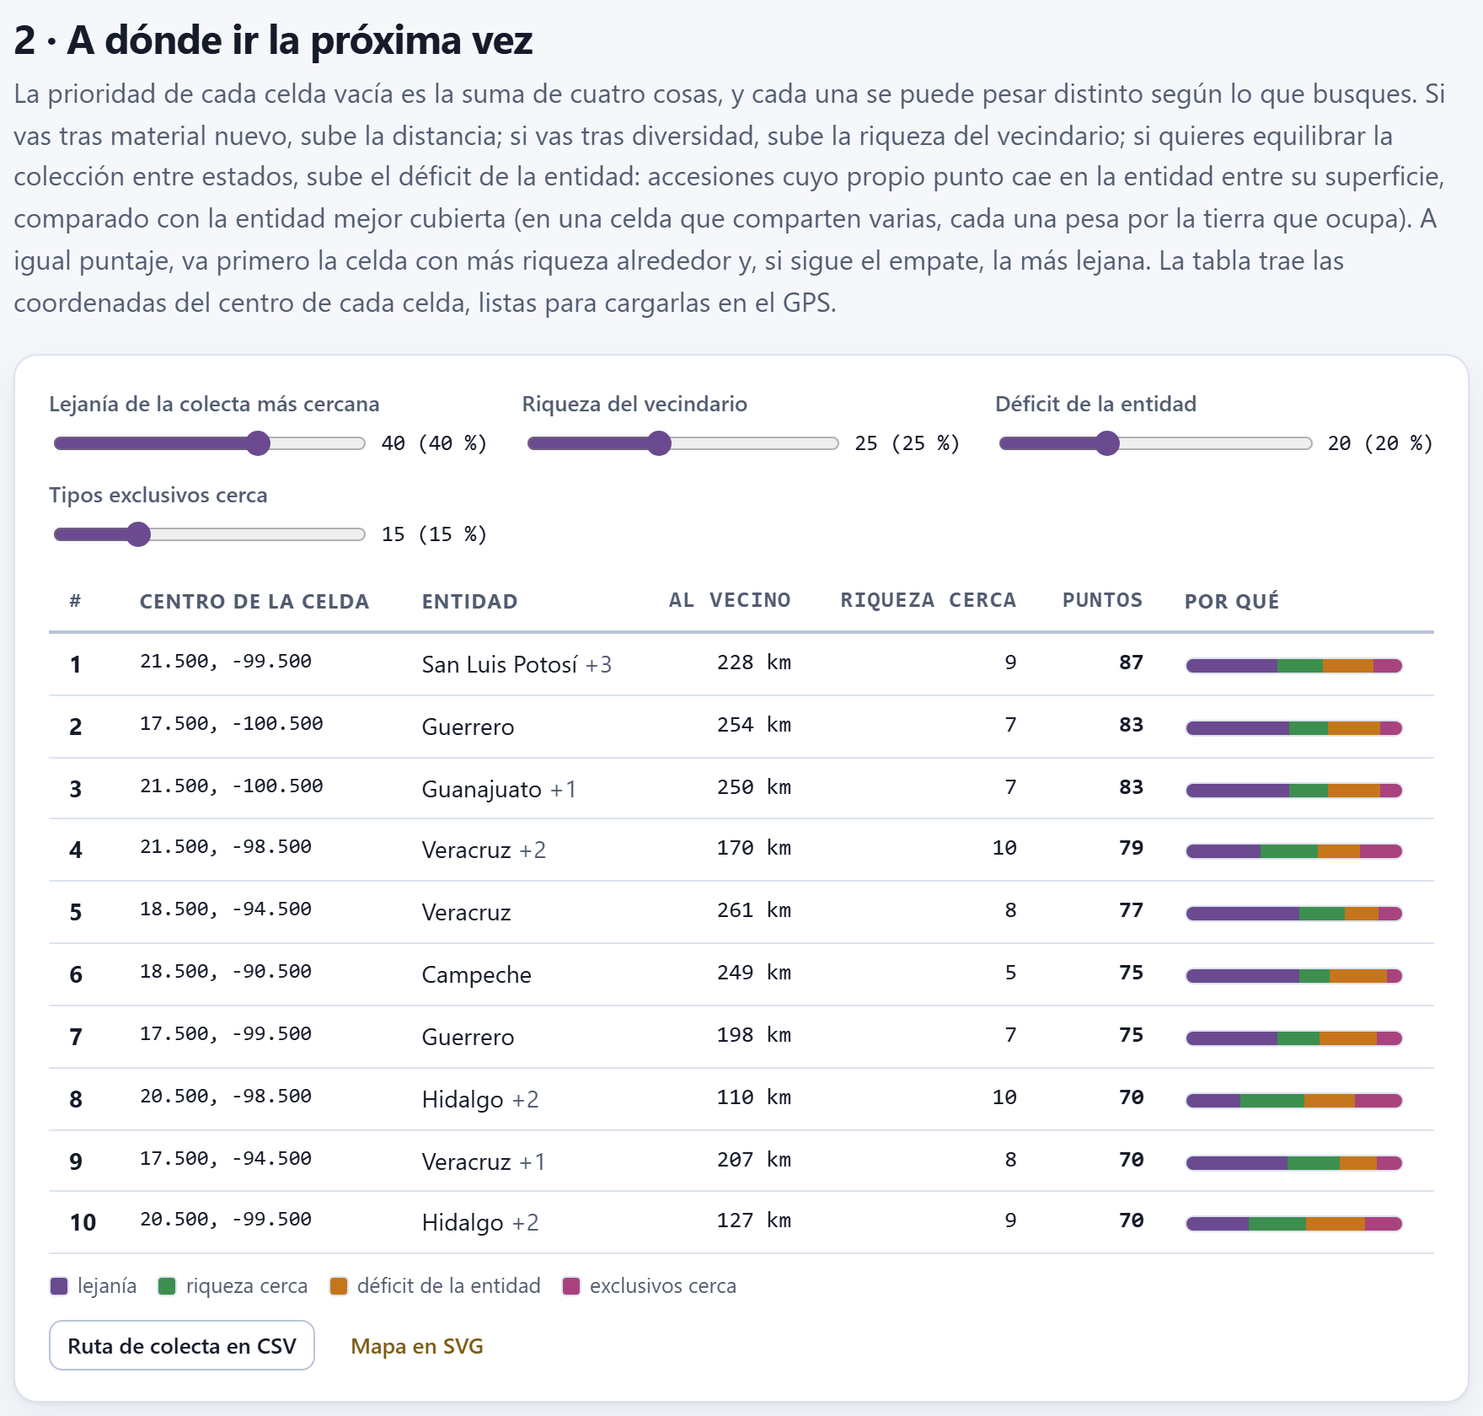
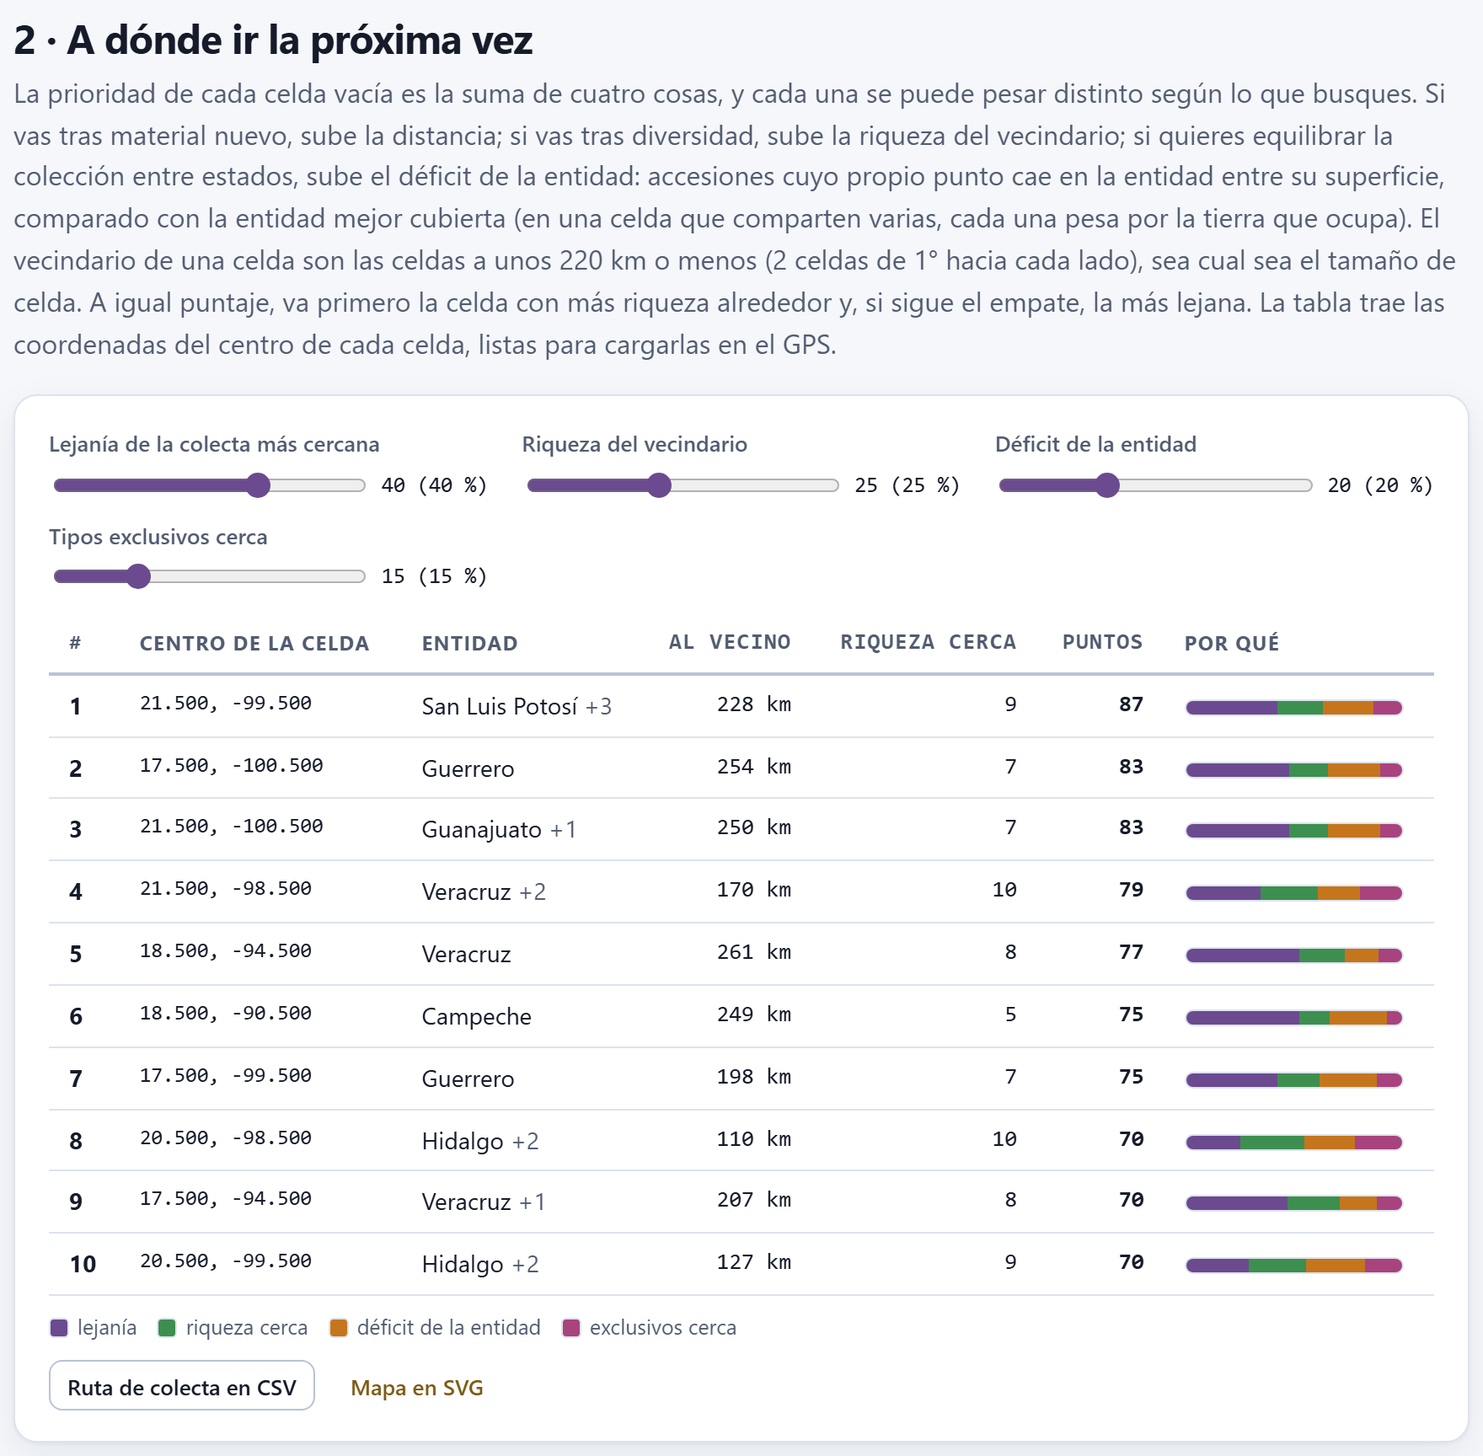
Manual: capítulo 6 con el vecindario de 220 km, altitudes del Bloque 5 y CSV de riesgos con nombres; capturas al día

diff --git a/manual/es/06-bloque6.html b/manual/es/06-bloque6.html
@@ -125,10 +125,10 @@
   <div class="caja teoria">
     <div class="caja-t"><span class="ico">θ</span>Teoría en breve · el índice de prioridad de una celda vacía</div>
     <div class="formula">P = w<sub>d</sub> · min(d, 250) / min(d<sub>máx</sub>, 250) + w<sub>r</sub> · R<sub>v</sub> / R<sub>máx</sub> + w<sub>e</sub> · δ<sub>celda</sub> + w<sub>x</sub> · X<sub>v</sub> / X<sub>máx</sub></div>
-    <p><b>Lejanía</b> (w<sub>d</sub> = 40): la distancia <i>d</i> a la colecta más cercana, con techo en 250 km —más lejos, el territorio es igual de desconocido— y dividida entre la mayor distancia de las celdas vacías (también con techo). <b>Riqueza del vecindario</b> (w<sub>r</sub> = 25): R<sub>v</sub>, los tipos distintos en el cuadro de 5 × 5 celdas centrado en la celda (dos celdas por lado), entre el mayor R<sub>v</sub> de la rejilla. <b>Tipos exclusivos cerca</b> (w<sub>x</sub> = 15): X<sub>v</sub>, los tipos del vecindario que sólo están en una celda de toda la rejilla, entre el mayor X<sub>v</sub>.</p>
+    <p><b>Lejanía</b> (w<sub>d</sub> = 40): la distancia <i>d</i> a la colecta más cercana, con techo en 250 km —más lejos, el territorio es igual de desconocido— y dividida entre la mayor distancia de las celdas vacías (también con techo). <b>Riqueza del vecindario</b> (w<sub>r</sub> = 25): R<sub>v</sub>, los tipos distintos en el vecindario de la celda (con 1°, el cuadro de 5 × 5 celdas centrado en ella), entre el mayor R<sub>v</sub> de la rejilla. <b>Tipos exclusivos cerca</b> (w<sub>x</sub> = 15): X<sub>v</sub>, los tipos del vecindario que sólo están en una celda de toda la rejilla, entre el mayor X<sub>v</sub>.</p>
     <p><b>Déficit de la entidad</b> (w<sub>e</sub> = 20). La densidad de colecta de una entidad es ρ<sub>e</sub> = accesiones cuyo punto cae en ella ÷ su superficie en km²; su déficit, δ<sub>e</sub> = 1 − ρ<sub>e</sub> / ρ<sub>máx</sub>: la entidad mejor cubierta vale 0 y las que no tienen nada valen 1. Una celda que comparten varias entidades toma el promedio de sus déficits pesado por la parte de tierra de cada una:</p>
     <div class="formula">δ<sub>celda</sub> = Σ<sub>e</sub> a<sub>e</sub> δ<sub>e</sub> / Σ<sub>e</sub> a<sub>e</sub>    (a<sub>e</sub>: parte de tierra de la entidad <i>e</i> en la celda)</div>
-    <p>El vecindario se mide en celdas, no en kilómetros: con celdas de 1° abarca unos 500 km de lado; con 0.5°, la mitad. A igual puntaje va primero la celda con más riqueza alrededor; si sigue el empate, la más lejana, y después la más al norte y la más al oeste.</p>
+    <p>El vecindario son las celdas a unos 220 km o menos hacia cada lado, sea cual sea el tamaño de celda: 2 celdas con 1°, 4 con 0.5° y 1 con 2°. La sección lo dice: <i>unos 220 km o menos (2 celdas de 1° hacia cada lado)</i>. A igual puntaje va primero la celda con más riqueza alrededor; si sigue el empate, la más lejana, y después la más al norte y la más al oeste.</p>
   </div>
   <figure style="width:62%;margin-left:auto;margin-right:auto">
     <div class="marco"><img src="../img/b6-prioridades.png" alt="La sección 2: cuatro deslizadores, cada uno con su nombre arriba y su valor a la derecha: Lejanía de la colecta más cercana 40 (40 %), Riqueza del vecindario 25 (25 %), Déficit de la entidad 20 (20 %) y Tipos exclusivos cerca 15 (15 %); la tabla con las diez primeras celdas: 1, 21.500, −99.500, San Luis Potosí +3, 228 km, riqueza 9, 87 puntos; 2, 17.500, −100.500, Guerrero, 254 km, 7, 83; 3, Guanajuato +1, 250 km, 7, 83; 4, Veracruz +2, 170 km, 10, 79; 5, 18.500, −94.500, Veracruz, 261 km, 8, 77; hasta la 10, 20.500, −99.500, Hidalgo +2, 127 km, 9, 70; cada fila con una barra de cuatro colores; debajo, la leyenda y los botones Ruta de colecta en CSV y Mapa en SVG"></div>
@@ -214,7 +214,7 @@
     <figcaption><b>Figura 6.7.</b> Las seis primeras filas de la tabla de riesgos (tiene 22), el botón del CSV y la nota de las franjas altitudinales vacías.</figcaption>
   </figure>
   <p><b>Cómo se lee para decidir.</b> Cada etiqueta sugiere una acción distinta: <i>una sola accesión</i> pide volver a colectar o pedir otra muestra; <i>sin duplicado de seguridad</i>, enviar una copia a otra institución (Bloque 8, capítulo 8); <i>sólo en banco de campo</i>, un respaldo in vitro o en criopreservación, porque una plaga o una helada se lleva la colección viva entera; <i>sólo in situ</i>, un respaldo ex situ, porque la población depende de que la reserva o la parcela sigan existiendo; <i>sólo como ADN</i>, conseguir material vivo, porque del ADN no se regenera la planta.</p>
-  <p>El botón <span class="ui">Tipos en riesgo en CSV</span> guarda <span class="ruta">tipos-en-riesgo.csv</span> con todos los tipos que tienen alguna etiqueta —22 en el ejemplo, aunque la tabla se corte en 40—, con las columnas <code>tipo</code>, <code>accesiones</code>, <code>entidades_o_paises</code>, <code>rutas</code> (con sus códigos: <code>seed</code>, <code>field</code>, <code>insitu</code>…), <code>duplicados</code>, <code>con_coordenadas</code>, <code>riesgos</code> y <code>peso</code>. Es la lista de trabajo para el Bloque 8.</p>
+  <p>El botón <span class="ui">Tipos en riesgo en CSV</span> guarda <span class="ruta">tipos-en-riesgo.csv</span> con todos los tipos que tienen alguna etiqueta —22 en el ejemplo, aunque la tabla se corte en 40—, con las columnas <code>tipo</code>, <code>accesiones</code>, <code>entidades_o_paises</code>, <code>rutas</code> (con su nombre, como en la tabla), <code>duplicados</code>, <code>con_coordenadas</code>, <code>riesgos</code> y <code>peso</code>. Es la lista de trabajo para el Bloque 8.</p>
   <div class="caja ejemplo">
     <div class="caja-t"><span class="ico">▸</span>Ejemplo · el encino, el chayote y el frijol</div>
     <table class="compacta cuenta"><tbody>
@@ -226,7 +226,7 @@
     <p>De las 24 especies, 22 tienen al menos una etiqueta y 21 suman 3 o más. Sólo el maíz (18 accesiones, 10 con duplicado, en 9 entidades o países) y el chile (3 accesiones, 2 con duplicado) quedan sin ninguna. El encino es el caso más frágil: una bellota recalcitrante, conservada sólo en una reserva, sin copia en otra institución.</p>
   </div>
   <h3>Las franjas altitudinales sin nada</h3>
-  <p>Debajo de la tabla, si hace falta, va una nota con las franjas de altitud intermedias sin ninguna accesión. La app reparte en franjas de 500 m —siempre 500, sin importar el selector del Bloque 5— las altitudes de las accesiones mapeadas, desde la franja de la más baja hasta la de la más alta, y lista las que quedaron vacías. Deja fuera las altitudes imposibles, por debajo de −430 m o por encima de 6 500 m, para que una sola altitud mal capturada no invente decenas de franjas vacías; hacen falta al menos tres altitudes válidas.</p>
+  <p>Debajo de la tabla, si hace falta, va una nota con las franjas de altitud intermedias sin ninguna accesión. La app reparte en franjas de 500 m —siempre 500, sin importar el selector del Bloque 5— las altitudes de las accesiones mapeadas, desde la franja de la más baja hasta la de la más alta, y lista las que quedaron vacías. Deja fuera las altitudes imposibles, por debajo de −500 m o por encima de 7 000 m (el mismo intervalo del Bloque 5), para que una sola altitud mal capturada no invente decenas de franjas vacías; hacen falta al menos tres altitudes válidas.</p>
   <p>Con la colección de ejemplo entran 44 altitudes, de 20 a 3 797 m (franjas de 0 a 4 000 m), y la nota dice que hay <b>1 franja de 500 m sin ninguna accesión: 3,000–3,500 m</b>; añade <i>Se dejó fuera 1 altitud imposible; corrígela en la ficha de la accesión, en el Bloque 2</i>: los 25 000 m del frijol tépari. Es la misma franja que faltaba en el gradiente del Bloque 5 (apartado 5.8). La franja intermedia vacía es un vacío ambiental grueso, el único que el bloque puede ver sin capas de clima: ninguna accesión está entre 3 000 y 3 500 m, entre la papa de 2 997 m y la papa amarga de 3 797 m, ambas del Perú. Es el piso de la papa y de los tubérculos andinos, y la colección lo salta.</p>
 
   <!-- 6.7 -->
@@ -260,19 +260,19 @@
     <caption><b>Tabla 6.7.</b> Lo que cambia con el territorio y el tamaño de celda (tipo: especie; pesos de fábrica).</caption>
     <thead><tr><th style="width:1.15in">Territorio · celda</th><th class="c">Celdas</th><th class="c">Ocupadas</th><th class="c">Cobertura</th><th class="c">Vacío mayor</th><th class="c">≥ 90 %</th><th class="c">Fuera</th><th>Primera prioridad</th></tr></thead>
     <tbody>
-      <tr><td>México · 0.5°</td><td class="c">831</td><td class="c">18</td><td class="c">2.2 %</td><td class="c">1 143 km</td><td class="c">10 de 18</td><td class="c">9</td><td>18.25, −114.75 (Colima, isla Clarión), 60.0</td></tr>
+      <tr><td>México · 0.5°</td><td class="c">831</td><td class="c">18</td><td class="c">2.2 %</td><td class="c">1 143 km</td><td class="c">10 de 18</td><td class="c">9</td><td>21.25, −98.75 (Hidalgo), 83.6</td></tr>
       <tr><td>México · 1°</td><td class="c">236</td><td class="c">13</td><td class="c">5.5 %</td><td class="c">1 026 km</td><td class="c">8 de 18</td><td class="c">9</td><td>21.50, −99.50 (San Luis Potosí), 86.9</td></tr>
-      <tr><td>México · 2°</td><td class="c">69</td><td class="c">11</td><td class="c">15.9 %</td><td class="c">1 021 km</td><td class="c">7 de 18</td><td class="c">9</td><td>23, −101 (San Luis Potosí), 97.1</td></tr>
+      <tr><td>México · 2°</td><td class="c">69</td><td class="c">11</td><td class="c">15.9 %</td><td class="c">1 021 km</td><td class="c">7 de 18</td><td class="c">9</td><td>17, −101 (Guerrero), 82.9</td></tr>
       <tr><td>El mundo · 1°</td><td class="c">17 012</td><td class="c">21</td><td class="c">0.1 %</td><td class="c">10 581 km</td><td class="c">13 de 24</td><td class="c">0</td><td>−13.50, −69.50 (Perú), 69.6</td></tr>
-      <tr><td>El mundo · 2°</td><td class="c">4 549</td><td class="c">18</td><td class="c">0.4 %</td><td class="c">10 640 km</td><td class="c">11 de 24</td><td class="c">0</td><td>23, −101 (San Luis Potosí), 77.2</td></tr>
+      <tr><td>El mundo · 2°</td><td class="c">4 549</td><td class="c">18</td><td class="c">0.4 %</td><td class="c">10 640 km</td><td class="c">11 de 24</td><td class="c">0</td><td>−13, −69 (Perú), 69.8</td></tr>
     </tbody>
   </table>
-  <p>La celda fina reparte la colección en más cuadros, deja menos territorio «cubierto» y separa colectas que la gruesa junta; la gruesa da una cobertura más optimista. Las nueve accesiones fuera del área son las mismas con cualquier tamaño: las de otros países. Con 0.5°, ojo con el índice: el vecindario de 5 × 5 celdas mide la mitad que con 1°, las celdas lejanas no tienen nada alrededor, y 320 celdas a 250 km o más empatan con 60 puntos (lejanía y déficit completos, riqueza y exclusivos en cero); las ordena el desempate y encabeza la lista la isla Clarión. La primera celda con riqueza en su vecindario aparece en el lugar 444. Con celdas de 0.5°, sube el peso de la riqueza y el de los exclusivos, o planea con 1° y usa 0.5° sólo para ver el detalle.</p>
+  <p>La celda fina reparte la colección en más cuadros, deja menos territorio «cubierto» y separa colectas que la gruesa junta; la gruesa da una cobertura más optimista. Las nueve accesiones fuera del área son las mismas con cualquier tamaño: las de otros países. Como el vecindario se mide en kilómetros (unos 220 km hacia cada lado), el índice da casi lo mismo con cualquier tamaño: las primeras celdas caen en la misma zona, entre la Huasteca, el norte de Guerrero y el Bajío. Con 0.5°, las cinco primeras son Hidalgo (21.25, −98.75) 83.6 · Guerrero (17.75, −100.25) 82.0 · Guanajuato (21.25, −100.25) 81.2 · Querétaro (21.25, −99.25) 79.4 · Hidalgo (20.75, −98.75) 77.2, y la rampa va de 25 a 84 puntos; con 2°, Guerrero (17, −101) 82.9 · Hidalgo (21, −99) 82.5 · Veracruz (19, −95) 81.1 · Guanajuato (21, −101) 76.8 · Campeche (19, −91) 75.4, con la rampa de 42 a 83. La celda fina afina el lugar; la gruesa da menos celdas y más fáciles de recorrer.</p>
   <figure class="mediana">
-    <div class="marco"><img src="../img/b6-mundo.png" alt="El mapa de vacíos con el territorio en El mundo y celdas de 2 grados: todos los continentes, salvo la Antártida, cubiertos de celdas casi del mismo tono rojizo; alrededor de México y de los Andes centrales, celdas ocres y amarillas; dieciocho celdas ocupadas en México, Guatemala, Colombia, Perú, Bolivia, Etiopía, India y Birmania; los círculos de prioridad 1 a 6 alrededor de México y 7 a 10 en Perú y Bolivia, apartados con una línea hasta su celda; la nota 0 accesiones caen fuera del área analizada y una barra de escala de 5,000 km"></div>
-    <figcaption><b>Figura 6.9.</b> El territorio en <span class="ui">El mundo</span> con celdas de 2°. Las prioridades que quedarían encimadas se apartan y una línea las une con su celda.</figcaption>
+    <div class="marco"><img src="../img/b6-mundo.png" alt="El mapa de vacíos con el territorio en El mundo y celdas de 2 grados: todos los continentes, salvo la Antártida, cubiertos de celdas casi del mismo tono rojizo; alrededor de México, de los Andes centrales y del norte de la India, celdas ocres y amarillas; dieciocho celdas ocupadas en México, Guatemala, Colombia, Perú, Bolivia, Etiopía, India y Birmania; los círculos de prioridad 1, 3 y 10 en Perú y Bolivia, 2 y 4 en México y 5 a 9 en el norte de la India, apartados con una línea hasta su celda; la nota 0 accesiones caen fuera del área analizada, la rampa de 24 a 70 puntos y una barra de escala de 5,000 km"></div>
+    <figcaption><b>Figura 6.9.</b> El territorio en <span class="ui">El mundo</span> con celdas de 2°: las prioridades se reparten entre los Andes, México y la India. Las prioridades que quedarían encimadas se apartan y una línea las une con su celda.</figcaption>
   </figure>
-  <p>Con <span class="ui">El mundo</span>, el déficit se calcula por país, con la misma densidad por superficie: Guatemala, con 2 accesiones en poco territorio, es el mejor cubierto (0) y México queda casi igual (0.004); Perú vale 0.917, Birmania 0.921, Bolivia 0.950, Etiopía 0.952, Colombia 0.953 y la India 0.983, y los países sin accesiones, 1. Por eso, con celdas de 1°, la primera prioridad pasa al sur del Perú, cerca de las papas. La tabla dice el <span class="ui">País</span> en lugar de la entidad, y el deslizador se llama <span class="ui">Déficit del país</span>. La cobertura y el vacío mayor dejan de ser útiles —el vacío mayor, a 10 581 km, está en Nueva Zelanda, y la tarjeta lo dice—; este territorio sirve para la complementariedad de una colección internacional, donde entran las 24 especies, y para planear salidas fuera de México filtrando la ruta del CSV por la columna <code>pais</code>.</p>
+  <p>Con <span class="ui">El mundo</span>, el déficit se calcula por país, con la misma densidad por superficie: Guatemala, con 2 accesiones en poco territorio, es el mejor cubierto (0) y México queda casi igual (0.004); Perú vale 0.917, Birmania 0.921, Bolivia 0.950, Etiopía 0.952, Colombia 0.953 y la India 0.983, y los países sin accesiones, 1. Por eso la primera prioridad pasa al sur del Perú, cerca de las papas: −13.50, −69.50 con 69.6 puntos con celdas de 1°, y −13, −69 con 69.8 con celdas de 2°. La tabla dice el <span class="ui">País</span> en lugar de la entidad, y el deslizador se llama <span class="ui">Déficit del país</span>. La cobertura y el vacío mayor dejan de ser útiles —el vacío mayor, a 10 581 km, está en Nueva Zelanda, y la tarjeta lo dice—; este territorio sirve para la complementariedad de una colección internacional, donde entran las 24 especies, y para planear salidas fuera de México filtrando la ruta del CSV por la columna <code>pais</code>.</p>
   <p>El tipo cambia la riqueza, los exclusivos, la complementariedad y la sección 3, pero no la rejilla ni la cobertura. Con <span class="ui">Género</span> hay 14 tipos en México, 6 celdas juntan al menos el 90 % y 12 tipos están en riesgo; con <span class="ui">Cultivo</span>, 18 tipos, 8 celdas y 17 en riesgo; con <span class="ui">Nombre de la accesión</span>, 35 nombres, 11 celdas y 45 en riesgo, porque casi cada accesión es un tipo con una sola accesión. En ese modo la tabla de riesgos avisa que muestra 40 de 45, y los nombres van sin cursiva.</p>
 
   <h3>Cuando algo no sale</h3>
@@ -282,12 +282,12 @@
       <tr><td><span class="ui">Primero carga tus accesiones en el Bloque 2.</span></td><td>No hay pasaporte. Carga tu colección o la de ejemplo (capítulo 2).</td></tr>
       <tr><td><span class="ui">N accesiones caen fuera del área analizada</span></td><td>Con el territorio en México, sus puntos caen en otro país, por un error o porque son de fuera. Revisa las coordenadas en el Bloque 3 o cambia el territorio a <span class="ui">El mundo</span>.</td></tr>
       <tr><td>Junto a la entidad aparece «+2»</td><td>La celda toca otras dos entidades; pasa el puntero para ver cuáles. La celda se rotula con la de más tierra y su déficit mezcla los de todas.</td></tr>
-      <tr><td>Muchas celdas con los mismos puntos</td><td>La lejanía topa en 250 km y la riqueza alrededor es nula, o todo el peso está en un solo componente. Combina al menos dos pesos (apartado 6.4) y, con 0.5°, sube la riqueza.</td></tr>
+      <tr><td>Muchas celdas con los mismos puntos</td><td>Todo el peso está en un solo componente: con sólo la lejanía, las celdas a 250 km o más empatan, y con sólo el déficit, las de entidades sin accesiones. Combina al menos dos pesos (apartado 6.4).</td></tr>
       <tr><td><span class="ui">Todos los pesos están en cero…</span></td><td>Los cuatro deslizadores están en 0. Sube al menos uno: vuelven la tabla y el CSV.</td></tr>
       <tr><td><span class="ui">hacen falta más celdas con colectas</span> en la sección 4</td><td>Menos de dos celdas aportan tipos: no hay curva que trazar. Usa una celda más fina o el territorio <span class="ui">El mundo</span>.</td></tr>
       <tr><td>Un tipo aparece «en riesgo» aunque sabes que tiene copia</td><td>Falta <code>DUPLSITE</code>, o dice la misma institución que <code>INSTCODE</code>. Complétalo en el Bloque 2.</td></tr>
       <tr><td><span class="ui">Se muestran 40 de N tipos con algún riesgo</span></td><td>Hay más de 40 tipos con etiquetas; la tabla muestra los más graves. Guarda el CSV para verlos todos.</td></tr>
-      <tr><td>La nota de franjas dice que dejó fuera altitudes imposibles</td><td>Hay altitudes menores de −430 m o mayores de 6 500 m. Corrígelas en la ficha de la accesión, en el Bloque 2.</td></tr>
+      <tr><td>La nota de franjas dice que dejó fuera altitudes imposibles</td><td>Hay altitudes menores de −500 m o mayores de 7 000 m. Corrígelas en la ficha de la accesión, en el Bloque 2.</td></tr>
     </tbody>
   </table>
 
@@ -297,7 +297,7 @@
       <tr><td style="width:44%"><b>Si</b> vas a planear una salida de colecta</td><td><b>entonces</b> corrige antes las coordenadas (Bloque 3): un signo perdido mueve una accesión fuera del territorio y abre un vacío que no existe.</td></tr>
       <tr><td><b>Si</b> una celda queda arriba con los pesos de fábrica y con cada peso subido</td><td><b>entonces</b> es una prioridad robusta: ponla en la ruta.</td></tr>
       <tr><td><b>Si</b> buscas material nuevo, poco conocido</td><td><b>entonces</b> sube la lejanía y el déficit de la entidad; si buscas diversidad cerca de lo que ya conoces, sube la riqueza y los exclusivos.</td></tr>
-      <tr><td><b>Si</b> trabajas con celdas de 0.5°</td><td><b>entonces</b> sube la riqueza y los exclusivos, o planea con 1°: con el vecindario chico, las celdas lejanas empatan arriba.</td></tr>
+      <tr><td><b>Si</b> quieres afinar dónde ir dentro de una zona prioritaria</td><td><b>entonces</b> baja a celdas de 0.5°: el vecindario sigue siendo de unos 220 km y el índice señala la misma zona, pero en cuadros de la mitad de lado.</td></tr>
       <tr><td><b>Si</b> un tipo tiene <i>una sola accesión</i>, está <i>sólo in situ</i> o <i>sólo como ADN</i></td><td><b>entonces</b> ponlo al principio de la lista de trabajo: colecta otra muestra o consigue material vivo para un respaldo ex situ.</td></tr>
       <tr><td><b>Si</b> un tipo está <i>sin duplicado de seguridad</i> o <i>sólo en banco de campo</i></td><td><b>entonces</b> envía un duplicado a otra institución o haz un respaldo in vitro o en criopreservación (Bloque 8).</td></tr>
       <tr><td><b>Si</b> hay una franja altitudinal intermedia vacía</td><td><b>entonces</b> incluye en la ruta celdas con esa altitud, aunque no estén entre las primeras del índice.</td></tr>
